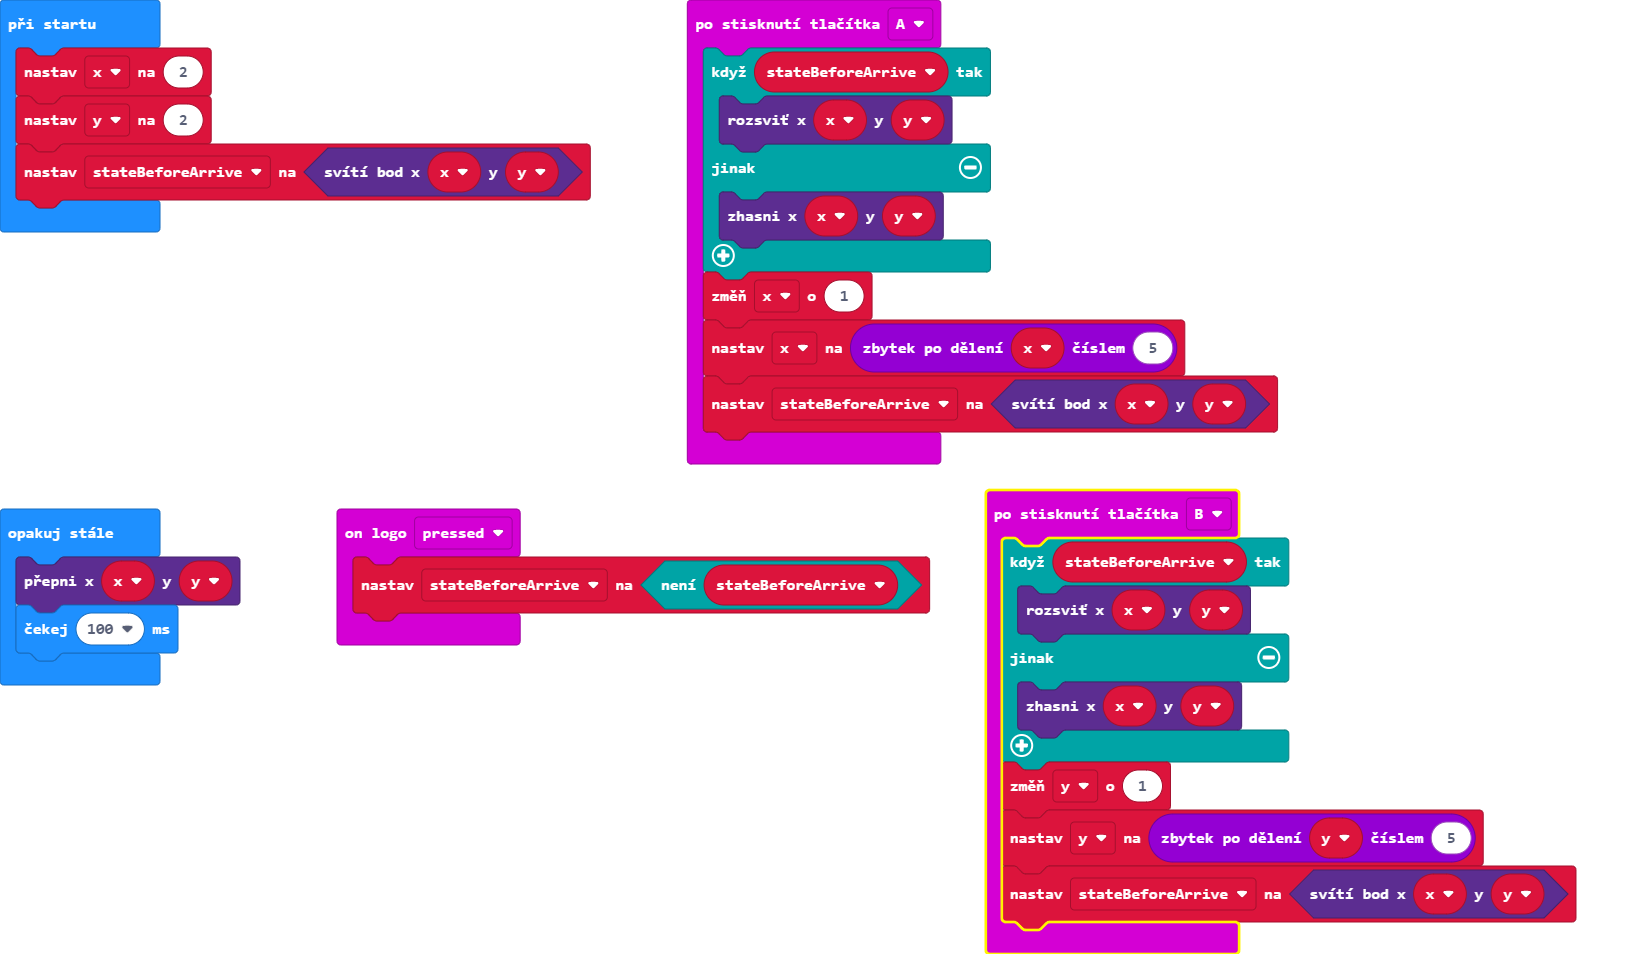
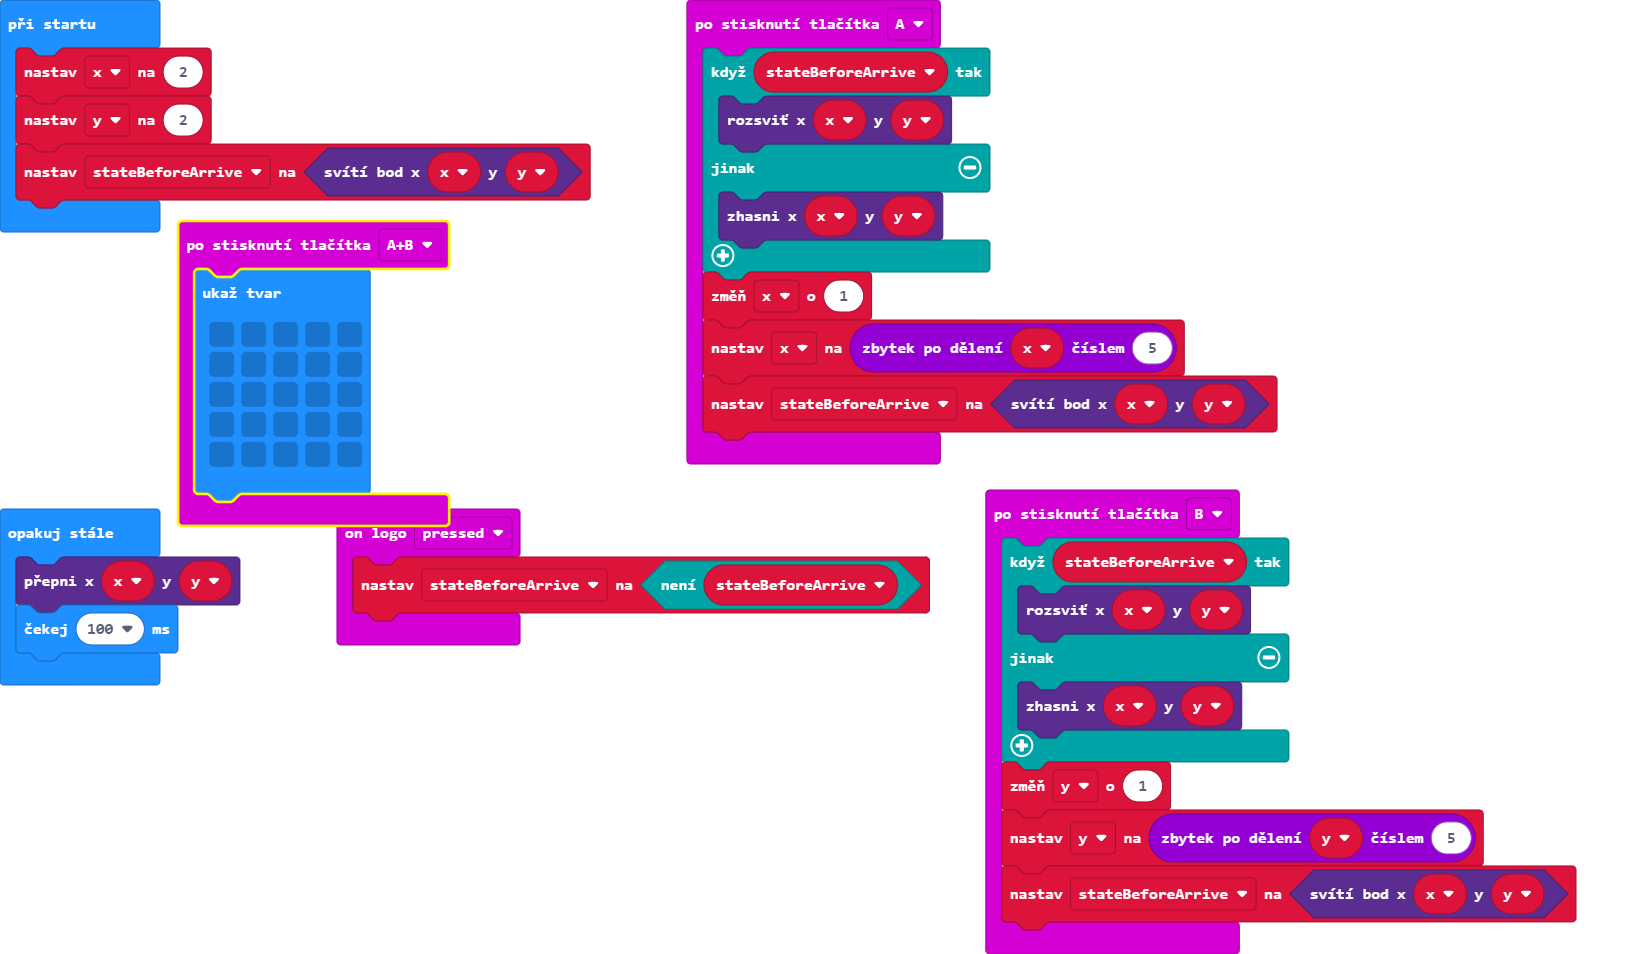
cleaning leds added

diff --git a/main.ts b/main.ts
@@ -8,6 +8,16 @@ input.onButtonPressed(Button.A, function () {
     x = x % 5
     stateBeforeArrive = led.point(x, y)
 })
+input.onButtonPressed(Button.AB, function () {
+    basic.showLeds(`
+        . . . . .
+        . . . . .
+        . . . . .
+        . . . . .
+        . . . . .
+        `)
+    stateBeforeArrive = false    
+})
 input.onButtonPressed(Button.B, function () {
     if (stateBeforeArrive) {
         led.plot(x, y)
